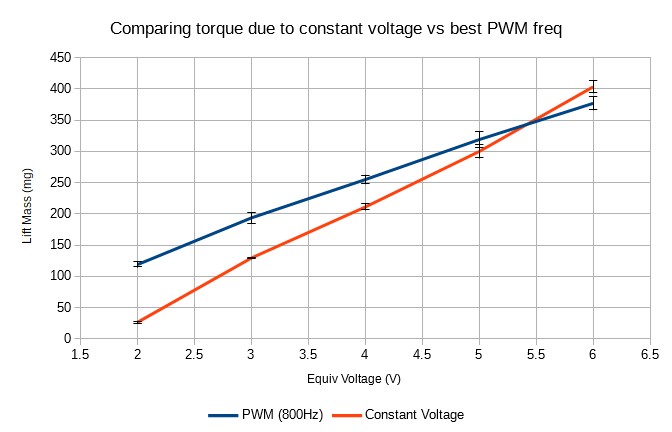
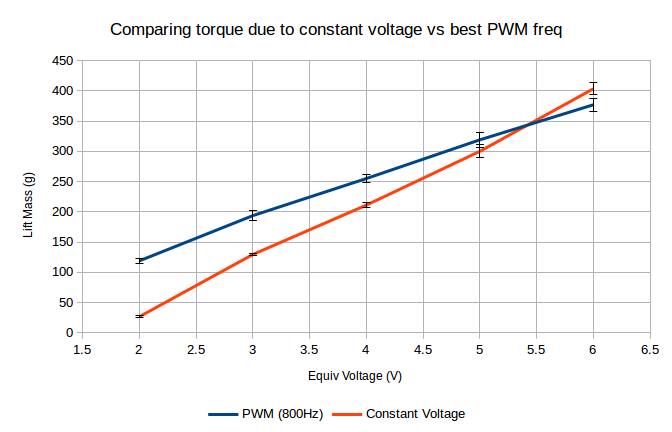
updates

diff --git a/content/projects/dc-motor-pwm.md b/content/projects/dc-motor-pwm.md
@@ -28,7 +28,7 @@ The motor is attached to a pulley which pulls up on a 3 lb lead weight. The scal
 <img src="/projects/dc-motor-pwm/pulley-closeup.jpg" alt=""  style="width:300px" class="img-responsive"/>
 <br />
 
-The first tests I performed were measurements of the no-load speed. The setup simply used the motor with the pulley attached but nothing connected to the pulley. This motor has a quadrature encoder and I used the 5LP to count the pulses coming from the encoder over a span of a 10 seconds 5 times in a row, averaged the values, and divided by 10 to get the pulses per second. The number of pulses per revolution I calculated by manually rotating the motor 20 times and dividing the resulting number by 20. (The LCD came in handy for displaying these values.) The RPM value is then (average pulses in 1 second)/(pulses per revolution)*(60 seconds per minute). Of course this is the speed at which the pulley is rotating, the motor speed is 30 times faster due to the gear ratio.
+The first tests I performed were measurements of the no-load speed. The setup simply used the motor with the pulley attached but nothing connected to the pulley. This motor has a quadrature encoder and I used the 5LP to count the pulse edges coming from the encoder over a span of a 10 seconds 5 times in a row, averaged the values, and divided by 10 to get the counts per second. The number of counts per revolution I calculated by manually rotating the motor 20 times and dividing the resulting number by 20. (The LCD came in handy for displaying these values.) The counts per revolution came out to 824. (Note: [CPR vs PPR](https://www.precisionmicrodrives.com/content/encoder-resolution-ppr-and-cpr/)) The RPM value is then (average counts in 1 second)/(counts per revolution)*(60 seconds per minute). Of course this is the speed at which the pulley is rotating, the motor speed is 30 times faster due to the gear ratio.
 
 I ran tests at PWM duty cycles which correspond to 2, 3, 4 and 5 volts equivalent. Respectively 1/3 (33%), 1/2 (50%), 2/3 (66%) and 5/6 (83%) of the 6 volts provided by the power supply. (Frequency and duty cycle were confirmed using an oscilloscope.)
 
@@ -48,9 +48,9 @@ From the above results it seems like choosing a PWM frequency under 1 kHz is goi
 
 The plot below shows the "lift mass" (reading on the scale) vs PWM frequency for various duty cycles. Since 100% duty cycle is just a constant 6 volts, this torque should be independent of PWM frequency and it does in fact stay within a fairly stable range, providing a sanity check.
 
-Torque in Nm can be calculated using the equation below (where 0.011 is the length of the moment arm in meters and the lift mass is in mg).
+Torque in Nm can be calculated using the equation below (where 0.011 is the length of the moment arm in meters and the lift mass is in kg).
 
-\\( \tau = (\mathrm{lift~mass})*9.8*0.011/1000 \\)
+\\( \tau = (\mathrm{lift~mass})*9.8*0.011 \\)
 
 The measurement process:
 
@@ -66,12 +66,26 @@ The measurement process:
 
 Interestingly this plot shows a peak in torque for three of the datasets at 800 Hz and at 400 Hz for the lowest duty cycle. This combined with the previous plots indicates that 800 Hz would be a good choice of PWM frequency.
 
-The last plot compares the torque for a PWM signal driving the motor at 800 Hz to using a constant voltage. A PWM duty cycle of 33.3% with a 6 V square wave should be equivalent to 6*(2/3) = 2 volts. The other equivalent voltages are calculated in the same way. 
+The next plot compares the torque for a PWM signal driving the motor at 800 Hz to using a constant voltage. A PWM duty cycle of 33.3% with a 6 V square wave should be equivalent to 6*(2/3) = 2 volts. The other equivalent voltages are calculated in the same way. 
 
 <br />
 <img src="/projects/dc-motor-pwm/pwm-vs-constant-voltage.png" alt=""  style="width:600px" class="img-responsive"/>
 <br />
 
-Interestingly the PWM signal consistently beats out the constant equivalent voltage. (The 6 volt data points should be identical since the PWM signal is at 100% duty cycle, the difference between them is just statistical noise).
+Interestingly the PWM signal consistently beats out the constant equivalent voltage, though what should really be compared is the current. (The 6 volt data points should be identical since the PWM signal is at 100% duty cycle, I suspect the difference between them may be due to temperature differences in the motor windings).
+
+Speaking of the windings, let's examine them a bit closer. Measuring the inductance with my LC meter gave a value of about 2.15 mH (at a measurement frequency of about 71 kHz). 
+
+Measuring the winding resistance with both my LC meter and with a multimeter yielded resistances of about 10 Ohms. For a more accurate measurement I measured the current through the stalled motor for a range of voltages, shown in the plot below.
 
 
+<br />
+<img src="/projects/dc-motor-pwm/stall-current.png" alt=""  style="width:600px" class="img-responsive"/>
+<br />
+
+Resistance is the inverse of the slope which yields a value of about 12.4 Ohms (for a fairly cold coil).
+
+
+<br />
+<img src="/projects/dc-motor-pwm/datasheet-comparison.png" alt=""  style="width350px" class="img-responsive"/>
+<br />

diff --git a/content/about/index.md b/content/about/index.md
@@ -7,25 +7,6 @@ title = "About Me"
 <img width="160px" class="about-image" src="/img/me.jpg" alt="This is me" /> 
 I classify  my intellectual pursuits as either *"Trying to make math behave like the universe"* or *"Trying to make the universe behave like math."* 
 
-The former is exemplified by my love of physics, and the later by my fascination with electrical engineering  and computer science.  
+The former is exemplified by my love of physics, and the later by my fascination with electrical engineering and computer science.  
 
-
-
-#### Education
-
-* Masters of Science in Physics (2016) from Louisiana State University
-* Bachelors of Science in Physics (2013) from Andrews University
-* Math and Computer Science Minors (2013)
-
-#### Experience
-
-* Lead Instructor at BlueStamp Enginering (May 2017 - July 2017)
-* Physics Instructor at LSU (Jan 2017 - May 2017)
-* Research Assistant at LSU (May 2016 - May 2017)
-* MCAT Physics Instructor at The Princeton Review (July 2016 - May 2017)
-* Private Physics Tutor (Aug 2015 - present)
-* Physics Teaching Assistant at LSU (Aug 2013 - May 2016)
-* Physics Teaching Assistant at Andrews University (Aug 2011 - May 2013)
-* Information Technologies Specialist for Malamulo Hospital (Aug 2010 - May 2011)
-* Tech Support and website developer for the Andrews University physics department (May 2008 - May 2013)
 
